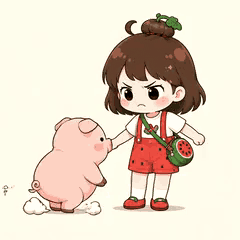
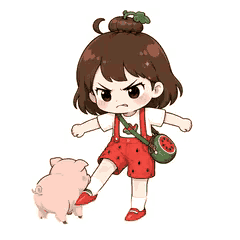
fix: flykick pig flies up off the top of the frame

diff --git a/src/lib/packs.ts b/src/lib/packs.ts
@@ -246,11 +246,11 @@ export const PACKS: Pack[] = [
 ];
 
 export function stickerGif(packId: string, stickerId: string) {
-  return `/stickers/${packId}/${stickerId}.gif?v=73`;
+  return `/stickers/${packId}/${stickerId}.gif?v=74`;
 }
 
 export function stickerPng(packId: string, stickerId: string) {
-  return `/stickers/${packId}/${stickerId}.png?v=73`;
+  return `/stickers/${packId}/${stickerId}.png?v=74`;
 }
 
 export function getPack(id: string) {

diff --git a/src/routes/pack.$id.tsx b/src/routes/pack.$id.tsx
@@ -77,7 +77,7 @@ function PackPage() {
           </button>
           {inProgress ? null : (
             <a
-              href={`/downloads/${pack.id}.zip?v=73`}
+              href={`/downloads/${pack.id}.zip?v=74`}
               download={`${pack.name}.zip`}
               className="inline-flex h-11 items-center justify-center rounded-md border border-line px-4 text-sm font-semibold text-ink"
             >
